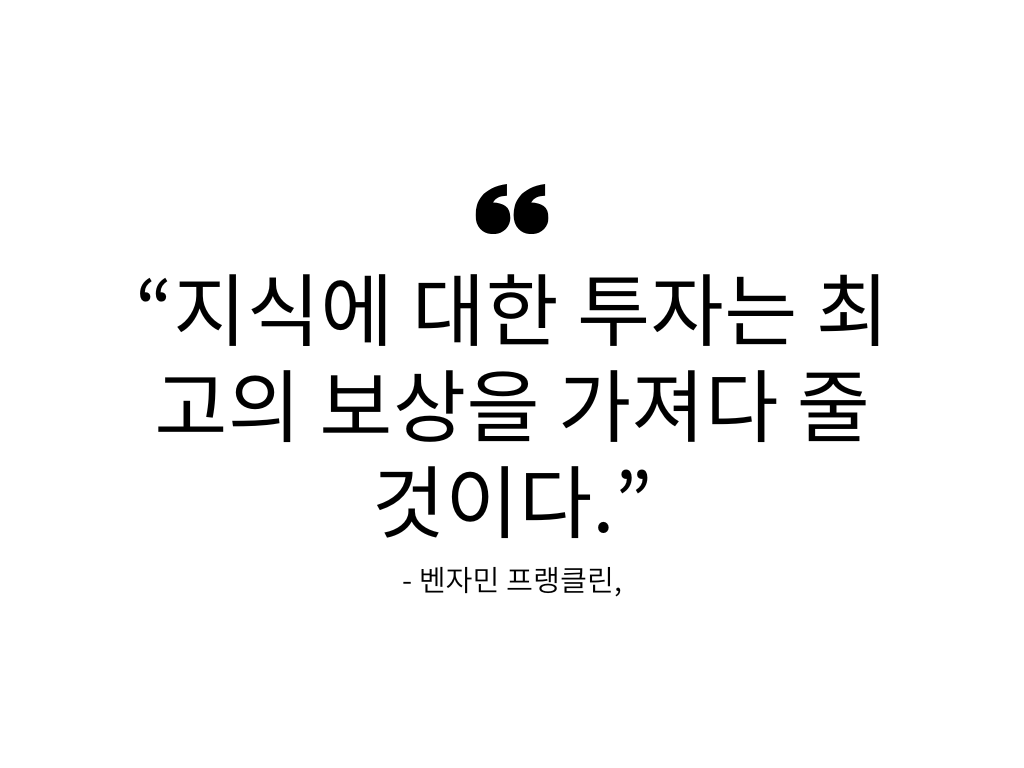
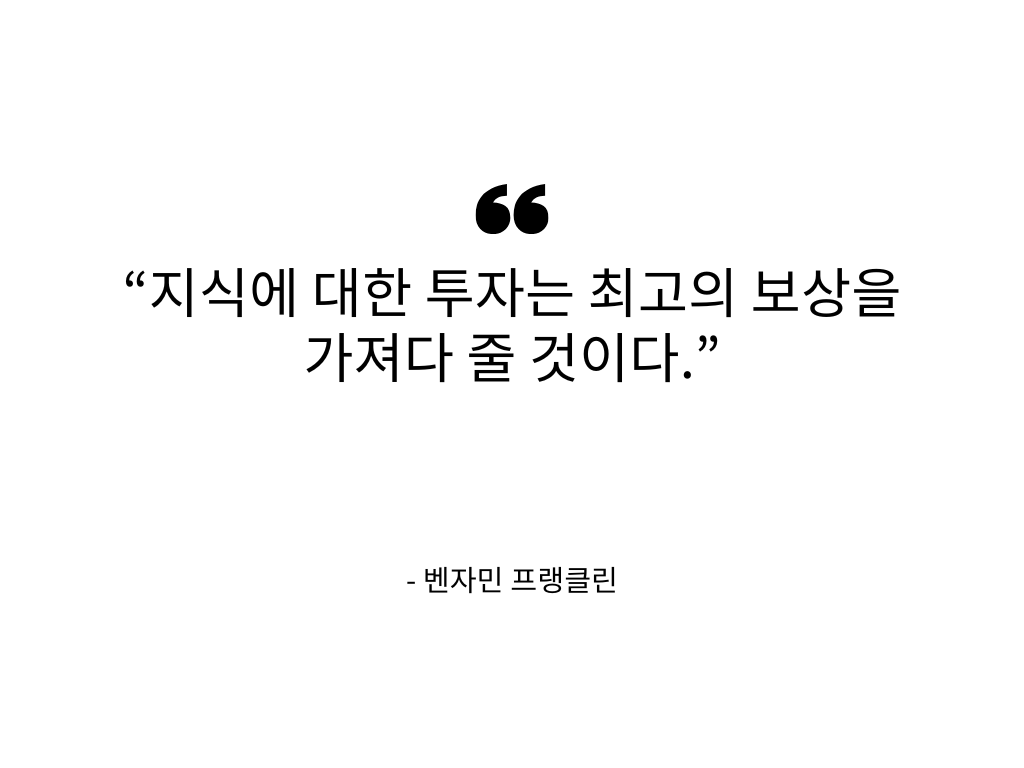
feat: home 랜덤 명언 이미지 생성 추가

Changed region(s): [[0.125, 0.3438, 0.875, 0.7812], [0.7812, 0.4688, 0.8438, 0.5938]]

diff --git a/src/pages/home/mainContent.js b/src/pages/home/mainContent.js
@@ -1,0 +1,31 @@
+import { useEffect, useState } from "react";
+import img1 from "../../img/wisesaying1.png";
+import img2 from "../../img/wisesaying2.png";
+import img3 from "../../img/wisesaying3.png";
+import img4 from "../../img/wisesaying4.png";
+import img5 from "../../img/wisesaying5.png";
+import img6 from "../../img/wisesaying6.png";
+import img7 from "../../img/wisesaying7.png";
+import img8 from "../../img/wisesaying8.png";
+import img9 from "../../img/wisesaying9.png";
+import img10 from "../../img/wisesaying10.png";
+import "../../css/home.css";
+
+const MainContent = () => {
+  const images = [img1, img2, img3, img4, img5, img6, img7, img8, img9, img10];
+
+  const [randomImage, setRandomImage] = useState(null);
+
+  useEffect(() => {
+    const randomIndex = Math.floor(Math.random() * images.length);
+    setRandomImage(images[randomIndex]);
+  }, []);
+
+  return (
+    <div className="home-content-container">
+      <img src={randomImage}></img>
+    </div>
+  );
+};
+
+export default MainContent;

diff --git a/src/pages/home/home.js b/src/pages/home/home.js
@@ -1,19 +1,21 @@
-import { useNavigate, Outlet } from "react-router-dom";
+import { useNavigate, Outlet, useLocation } from "react-router-dom";
 import { useEffect, useContext } from "react";
-import {UserContext} from "../../context.js";
+import { UserContext } from "../../context.js";
 import Header from "./header.js";
 import SideNavBar from "./sideNavBar.js";
 import { height } from "@fortawesome/free-brands-svg-icons/fa42Group";
+import MainContent from "./mainContent.js";
 
 const Home = () => {
   const { user, setUser } = useContext(UserContext);
+  const location = useLocation();
 
   return (
     <div>
       <Header />
       <div style={{ display: "flex", height: "100%" }}>
         <SideNavBar />
-        <Outlet />
+        {location.pathname === "/" ? <MainContent /> : <Outlet />}
       </div>
     </div>
   );

diff --git a/src/css/home.css b/src/css/home.css
@@ -1,0 +1,7 @@
+.home-content-container {
+  display: flex;
+  justify-content: center;
+  align-items: center;
+  width: calc(100% - 240px);
+  height: 100vh;
+}
